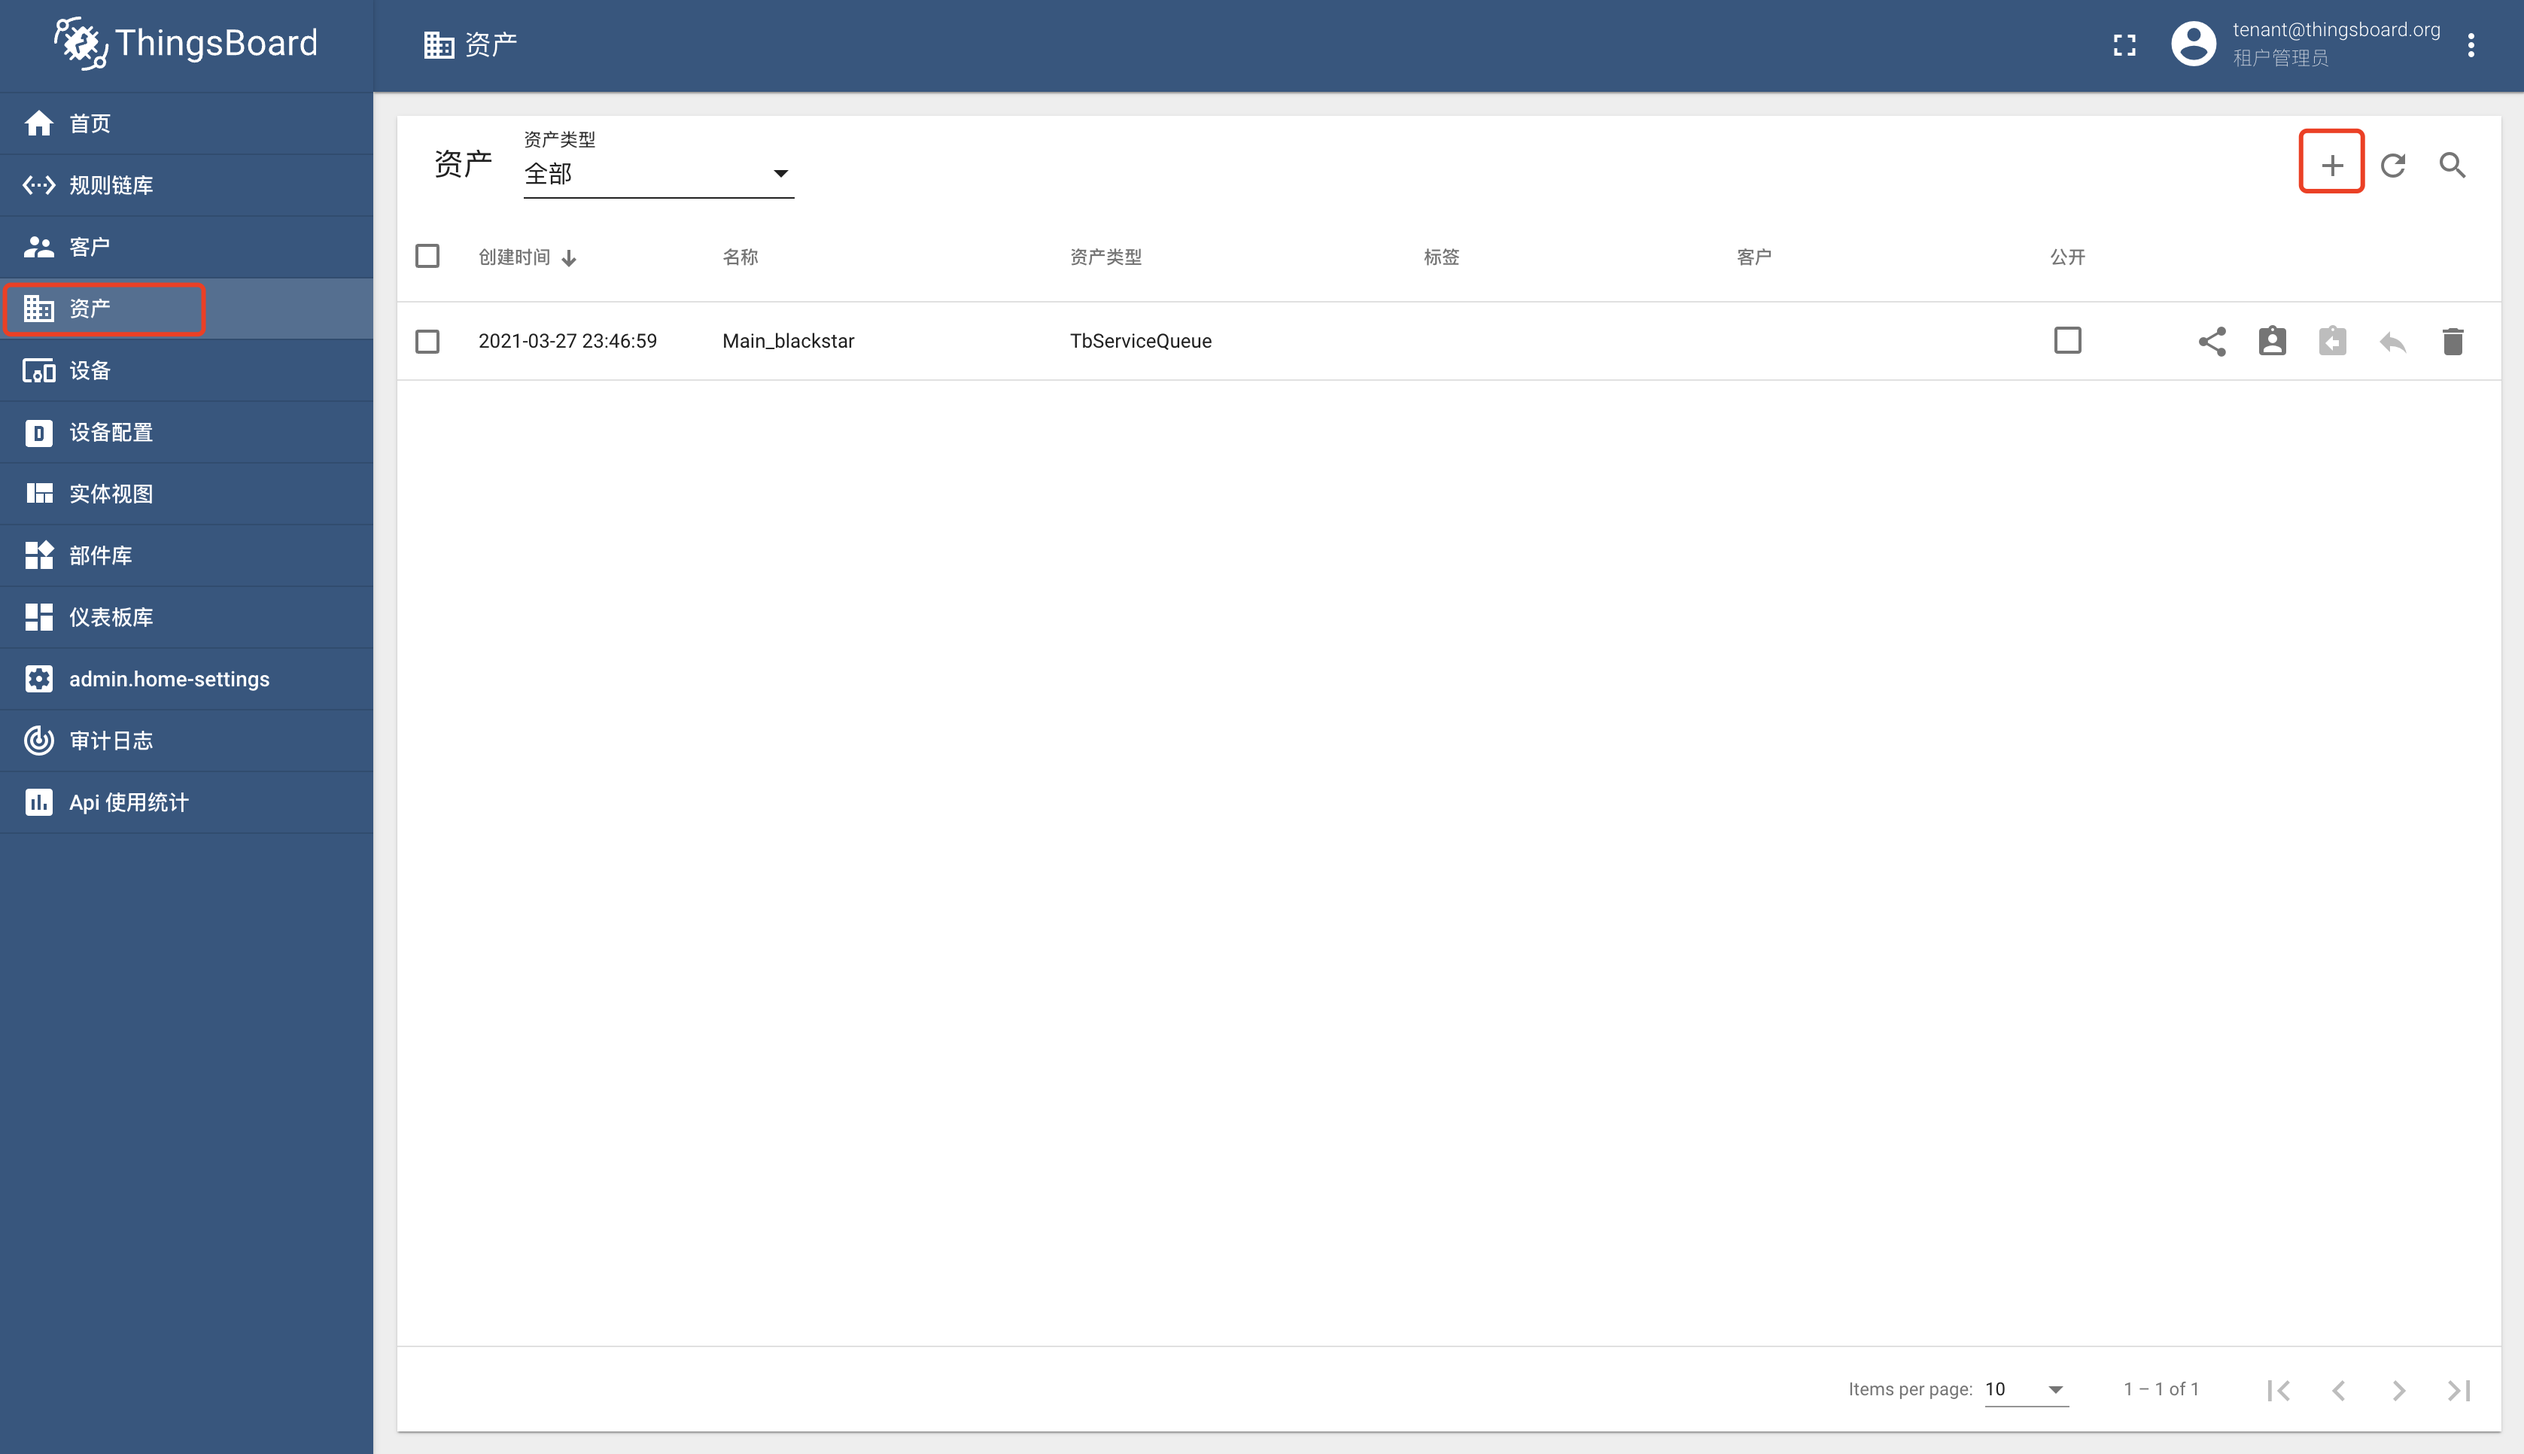
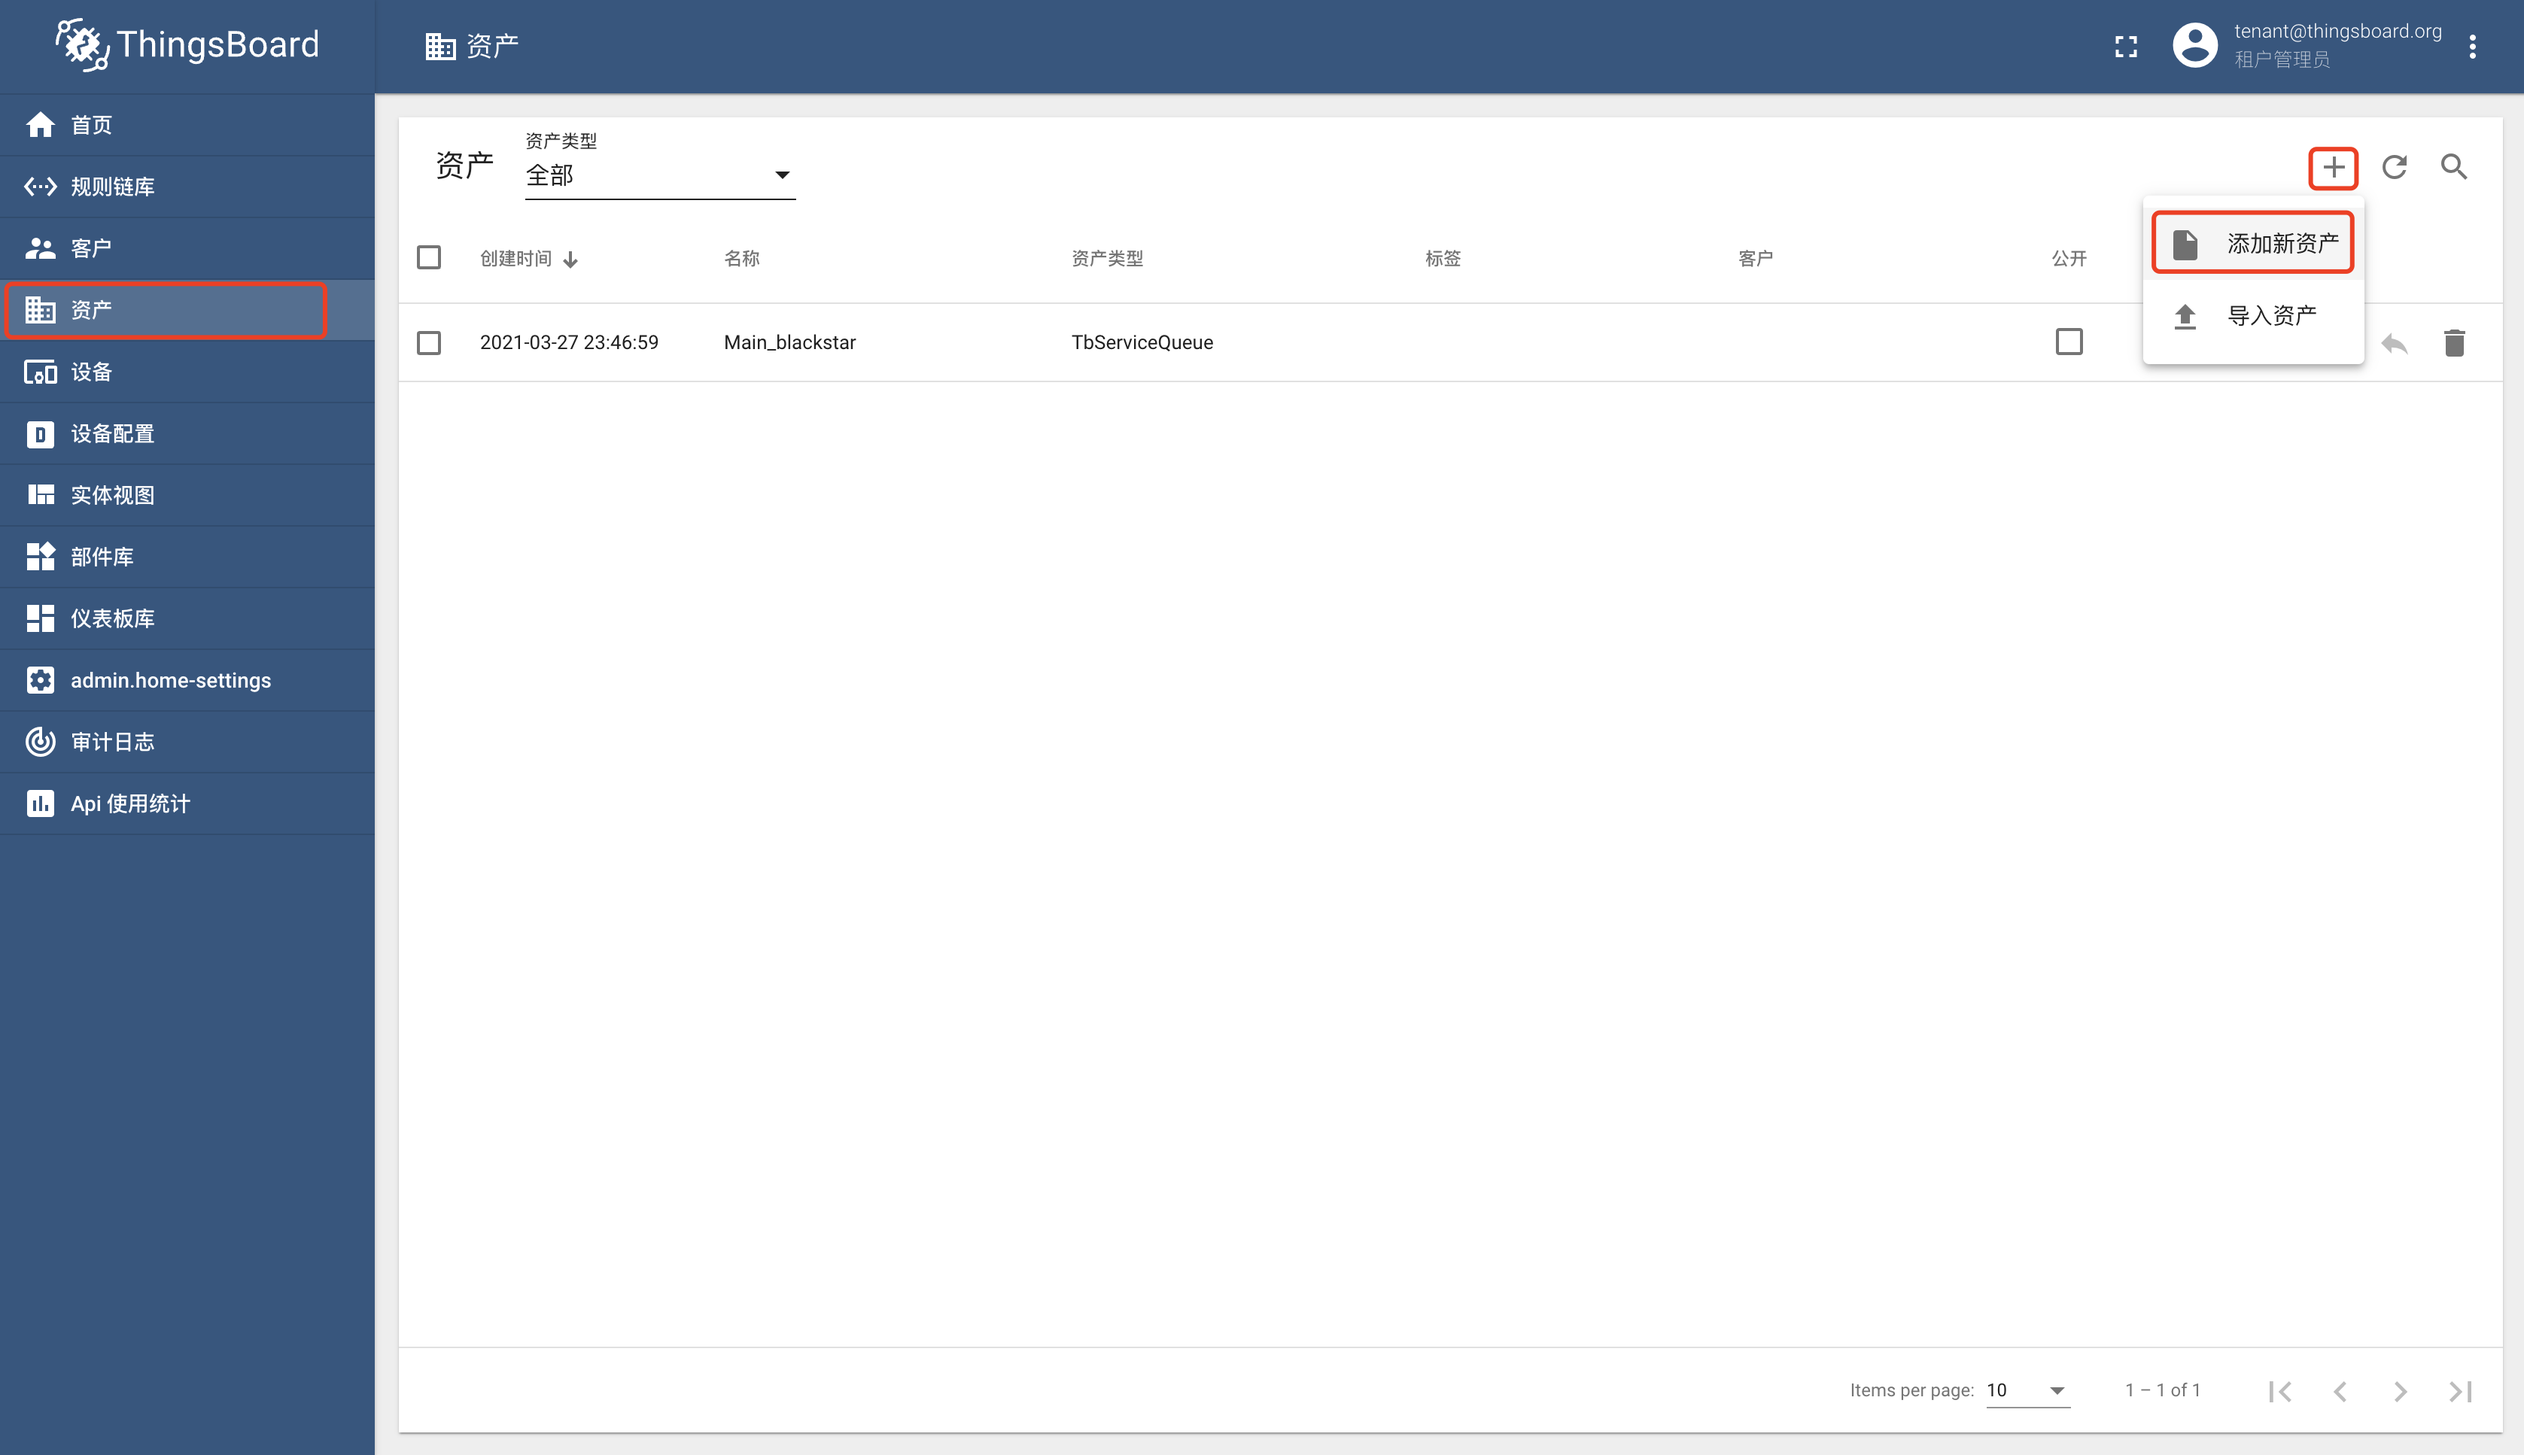
update asset md

diff --git a/doc/规则引擎.md b/doc/规则引擎.md
@@ -1,0 +1,58 @@
+#### 环境准备
+
+- 已经编译且能成功运行的代码环境，可参考前作。
+- IDE Idea或Eclipse，本文使用Idea
+- 支持Html5的浏览器，本文使用Chrome
+
+
+
+#### 根规则链
+
+每个租户都会创建一条名为`Root Rule Chain`(根规则链)的规则链，用来处理该租户下的设备数据
+![根规则链](../image/根规则链.png)
+默认所有的设备数据都会先经过根规则链进行处理
+![根规则链详情](../image/根规则链详情.png)
+
+#### 规则链创建
+
+启动程序，使用`tenant@thingsboard.org`账号登录系统，进入规则链库页面，点击右上角`+`号，选择`创建新的规则链`
+![规则链创建](../image/规则链创建.png)
+填写名称`我的规则`以及说明（不是必须），点击`添加`按钮
+![规则链保存](../image/规则链保存.png)
+在规则链列表中查看`我的规则`是否存在
+![规则链列表](../image/规则链列表.png)
+
+#### 规则链编辑
+点击规则链`我的规则`,在右侧弹出页中点击`打开规则链`按钮
+![规则链打开](../image/规则链打开.png)
+##### 节点增加
+在左侧规则节点列表中拖拽节点`message count`,填写名称`消息计数`，点击`添加`按钮
+![消息计数节点添加](../image/消息计数节点添加.png)
+将规则节点`input`和节点`message count`连接上，点击右下角`勾`进行保存。
+![规则链编辑保存](../image/规则链编辑保存.png)
+
+##### 节点修改
+
+双击面板中的节点`消息计数`（或单击节点，然后在节点右上角，点击笔形按钮）在右侧弹出页中可以进行修改，点击`勾`进行保存
+![消息计数节点修改](../image/消息计数节点修改.png)
+节点修改后，必须点击右下角`勾`进行规则链的保存
+
+##### 节点删除
+
+点击面板中的节点`消息计数`，点击节点右上角`x`按钮，即可删除该节点
+![消息计数节点删除](../image/消息计数节点删除.png)
+节点删除后，必须点击右下角`勾`进行规则链的保存
+
+#### 规则链链接
+
+规则链与规则链通过链接，可以将一条链的处理结果传输到另一条链继续处理，点击规则链`RootRoot Rule Chain`,
+
+#### 规则链调试
+
+
+#### TIPS
+- 通常物联网平台都会具有规则引擎，规则引擎用途是进行实时数据的实时处理。
+
+
+
+

diff --git a/doc/资产.md b/doc/资产.md
@@ -1,8 +1,7 @@
 #### 环境准备
 
 - 已经编译且能成功运行的代码环境，可参考前作。
-- IDE Idea或Eclipse，本文使用idea
-- [MqttBox](http://workswithweb.com/mqttbox.html)，一个Mqtt客户端
+- IDE Idea或Eclipse，本文使用Idea
 - 支持Html5的浏览器，本文使用Chrome
 
 
@@ -11,7 +10,7 @@
 
 这里的资产主要指的是与设备相关的聚合点，比如安装传感器的农田，工厂、地区，资产可以进行多级关联，官方一个示例图：
 ![资产设备关系](../image/entities-and-relations.svg)
-启动程序，登录系统，点击左侧`资产`菜单，进入资产列表页面，点击右上角`+`号
+启动程序，使用`tenant@thingsboard.org`账号登录系统，点击左侧`资产`菜单，进入资产页面，点击右上角`+`号，选择`添加新资产`
 ![资产创建](../image/资产创建.png)
 填写名称`我的资产`和类型`asset`，点击`添加`按钮进行保存
 ![资产创建](../image/资产保存.png)

diff --git a/doc/智能网关.md b/doc/智能网关.md
@@ -1,7 +1,7 @@
 #### 环境准备
 
 - 已经编译且能成功运行的代码环境，可参考前作。
-- IDE Idea或Eclipse，本文使用idea
+- IDE Idea或Eclipse，本文使用Idea
 - [MqttBox](http://workswithweb.com/mqttbox.html)，一个Mqtt客户端
 - 支持Html5的浏览器，本文使用Chrome
 
@@ -9,7 +9,7 @@
 
 #### 网关创建
 
-网关在系统中也是作为`设备`管理，启动程序，登录系统，进入设备页面
+网关在系统中也是作为`设备`管理，启动程序，使用`tenant@thingsboard.org`账号登录系统，进入设备页面
 ![设备页](../image/设备页.png)
 
 点击右侧`+`号，选择`添加新设备`菜单

diff --git a/doc/普通设备.md b/doc/普通设备.md
@@ -1,13 +1,13 @@
 #### 环境准备
 
 - 已经编译且能成功运行的代码环境，可参考前作。
-- IDE Idea或Eclipse，本文使用idea
+- IDE Idea或Eclipse，本文使用Idea
 - [MqttBox](http://workswithweb.com/mqttbox.html)，一个Mqtt客户端
 - 支持Html5的浏览器，本文使用Chrome 
 
 
 #### 设备创建
-启动程序，登录系统，进入设备页面
+启动程序，使用`tenant@thingsboard.org`账号登录系统，进入设备页面
 
 ![设备页](../image/设备页.png)
 

diff --git a/doc/后端调试.md b/doc/后端调试.md
@@ -1,6 +1,6 @@
 #### 环境准备
 - 已经编译且能成功运行的代码环境，可参考前2篇 [编译](编译.md) [运行](运行.md)
-- IDE Idea或Eclipse，本文使用idea
+- IDE Idea或Eclipse，本文使用Idea
 
 #### 调试
 在idea中调试后端非常简单，首次运行时，找到类`ThingsboardServerApplication`，右键点击选择菜单`Debug 'ThingsboardServerApplication main' `进行调试。

diff --git a/doc/前端调试.md b/doc/前端调试.md
@@ -1,7 +1,7 @@
 #### 环境准备
 
 - 已经编译且能成功运行的代码环境，且后端已经开始正常运行 可参考前篇 [编译](编译.md) [运行](运行.md) [后端调试](后端调试.md)
-- IDE Idea或Eclipse，本文使用idea
+- IDE Idea或Eclipse，本文使用Idea
 - 支持Html5的浏览器，本文使用Chrome 
 
 ##### 调试

diff --git a/doc/运行.md b/doc/运行.md
@@ -1,6 +1,6 @@
 #### 环境准备
 - 已经编译过的代码环境，可参考前篇 [编译](编译.md)
-- IDE Idea或Eclipse，本文使用idea
+- IDE Idea或Eclipse，本文使用Idea
 - PG数据库 Postgresql 12+，本文使用Docker初始化
 ```sh
 docker run --name tb_pg -e POSTGRES_PASSWORD=postgres -p 5432:5432 -d postgres:12  

diff --git a/README.md b/README.md
@@ -35,7 +35,7 @@
 	-  普通设备  [入口](doc/普通设备.md)
 	-  智能网关  [入口](doc/智能网关.md)
 -  资产 [入口](doc/资产.md)
--  规则引擎
+-  规则引擎 [入口](doc/规则引擎.md)
 -  组件
 -  仪表盘
 -  一个示例

diff --git a/doc/编译.md b/doc/编译.md
@@ -1,7 +1,7 @@
 #### 环境准备
 
-- jdk8+ (3.2.2版本开始使用jdk11)
-- maven3.2.1+
+- Jdk8+ (3.2.2版本开始使用Jdk11)
+- Maven3.2.1+
 
 #### 获取代码
 
